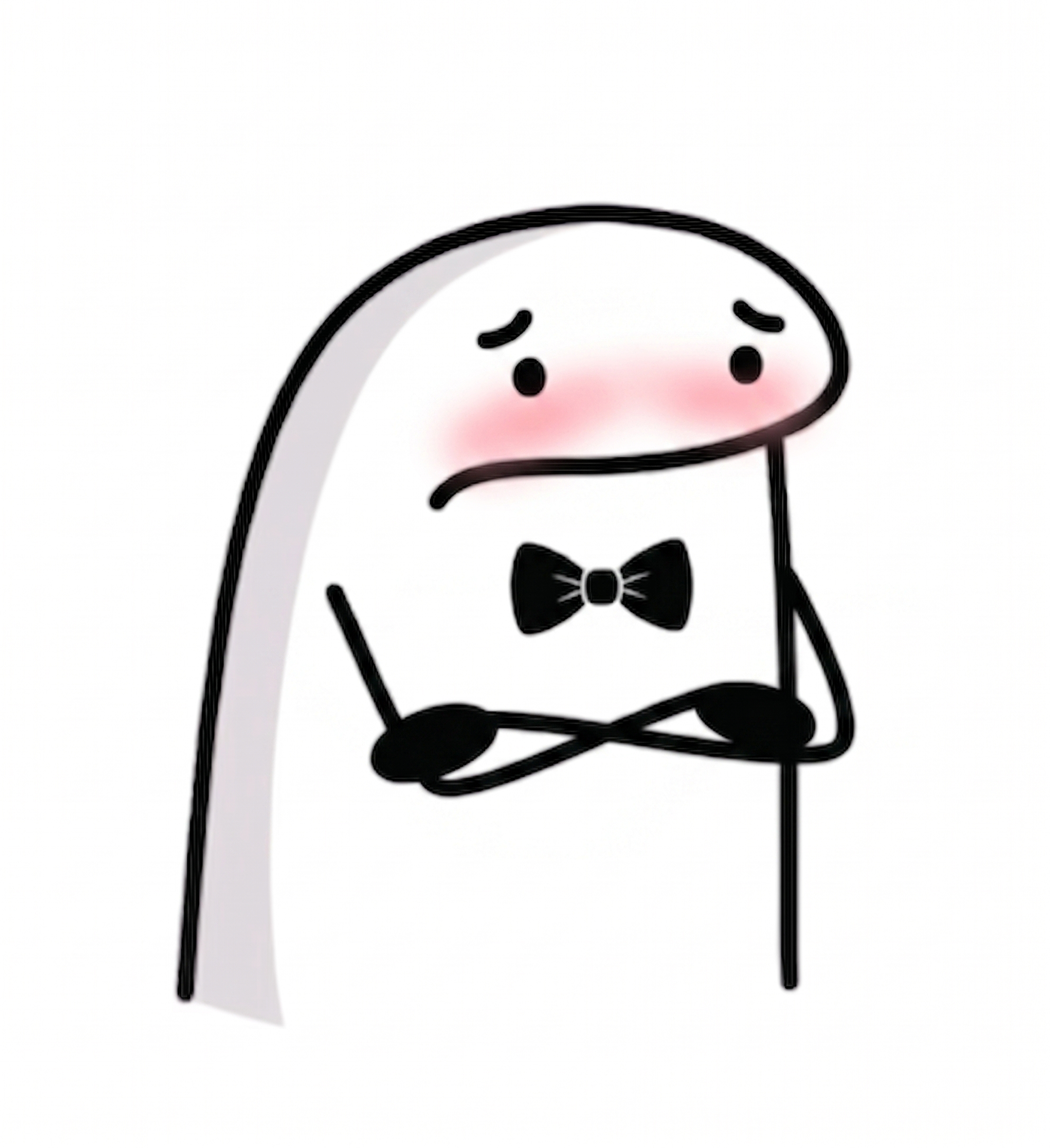
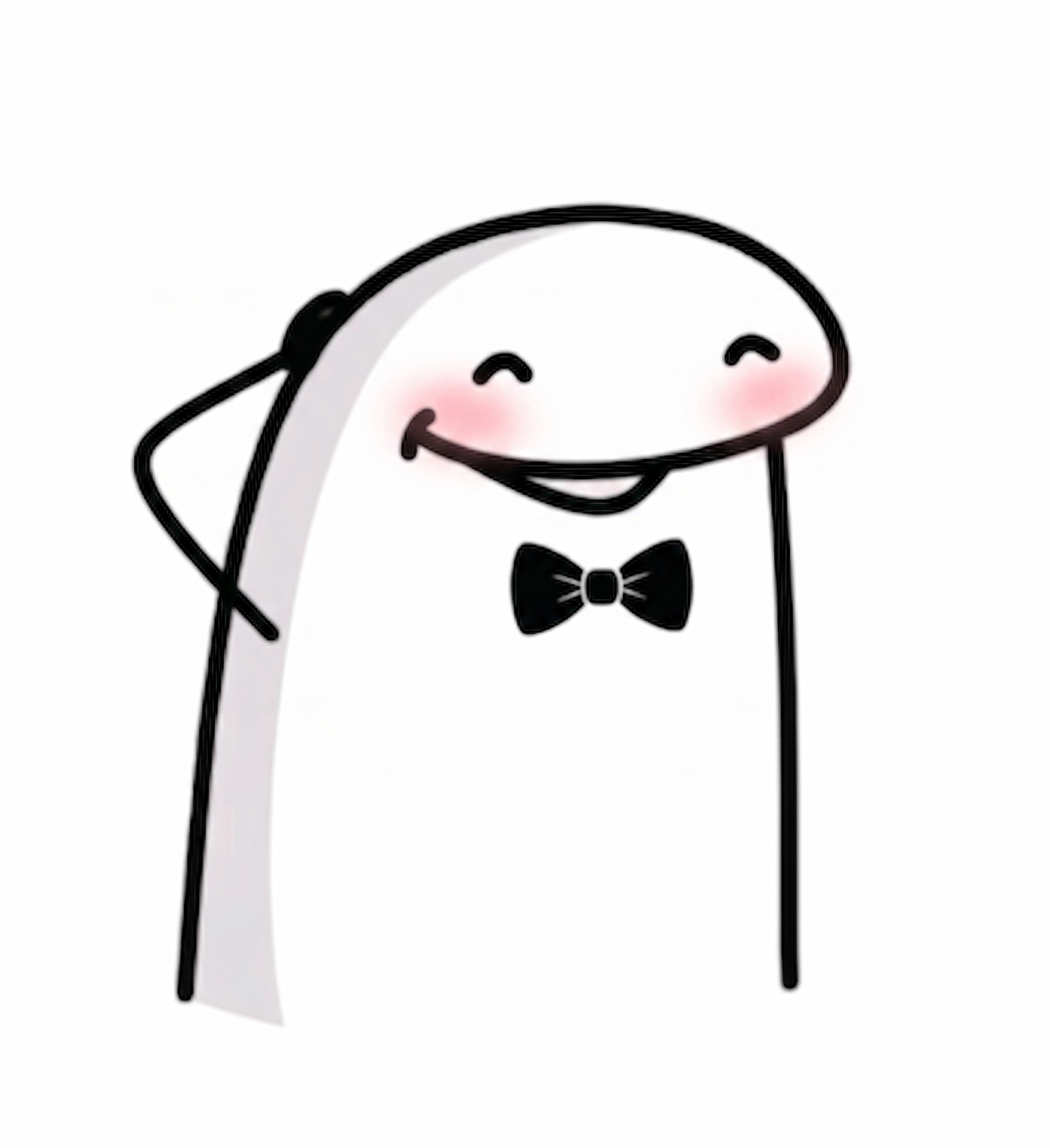
Actualiza galeria de fotos de Zoe

diff --git a/index.html b/index.html
@@ -68,7 +68,7 @@
       'Quieroo animarteeeeeeeeee.',
       'Me dijiste que te gusta el animeeeee, entonces ¿qué te parece si más tarde vemos una película clásicaaa de animeee? Sé que te gustaráaa ;)'
     ];
-    const imagenes = ['zoe1.jpg?v=3', 'zoe2.jpg?v=3', 'zoe3.jpg?v=3', 'zoe4.jpg?v=3', 'zoe5.jpg?v=3', 'zoe6.jpg?v=3', 'zoe6.jpg?v=3'];
+    const imagenes = ['zoe1.jpg?v=3', 'zoe2.jpg?v=3', 'zoe3.jpg?v=3', 'zoe4.jpg?v=3', 'zoe5.jpg?v=3', 'zoe6.jpg?v=3', 'zoe7.jpg?v=1'];
     const palabras = ['hermosa', 'Zoe', 'Julia', 'Guadalupe', 'Lupe', 'bella', 'divina', 'linda', 'Sirenita', 'sonsita', 'blue', 'blucita', 'azulita', 'azuul'];
     let indice = 0, intentosNo = 0, efectosActivos = false;
     const $ = (id) => document.getElementById(id);
